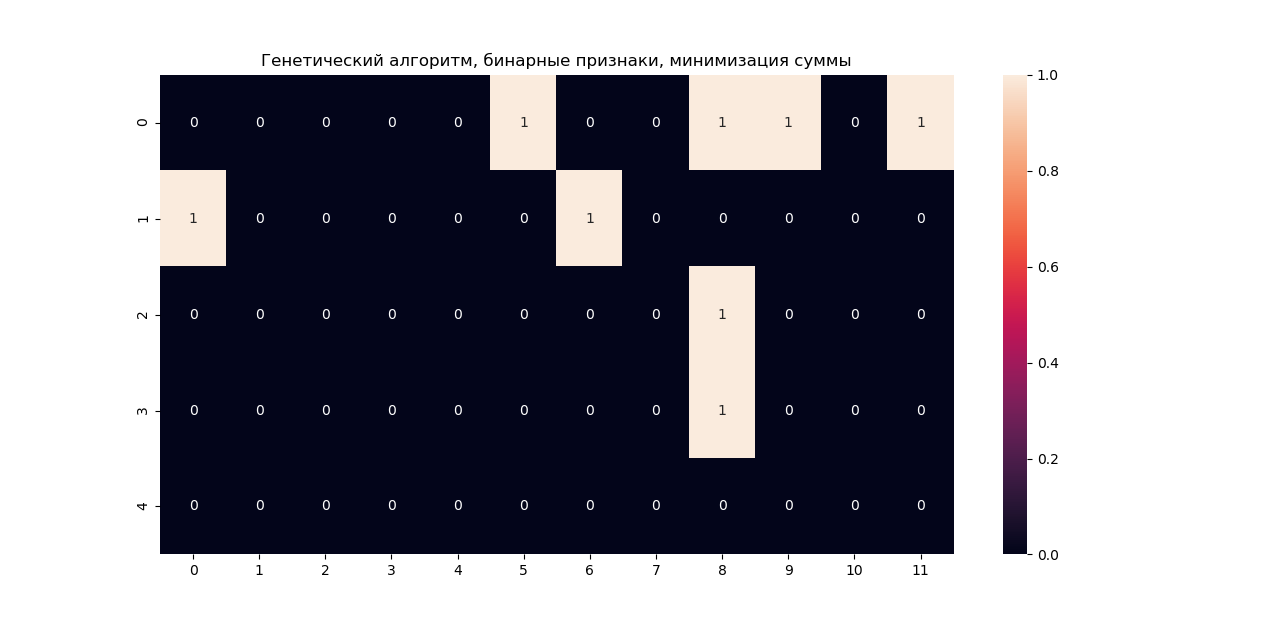
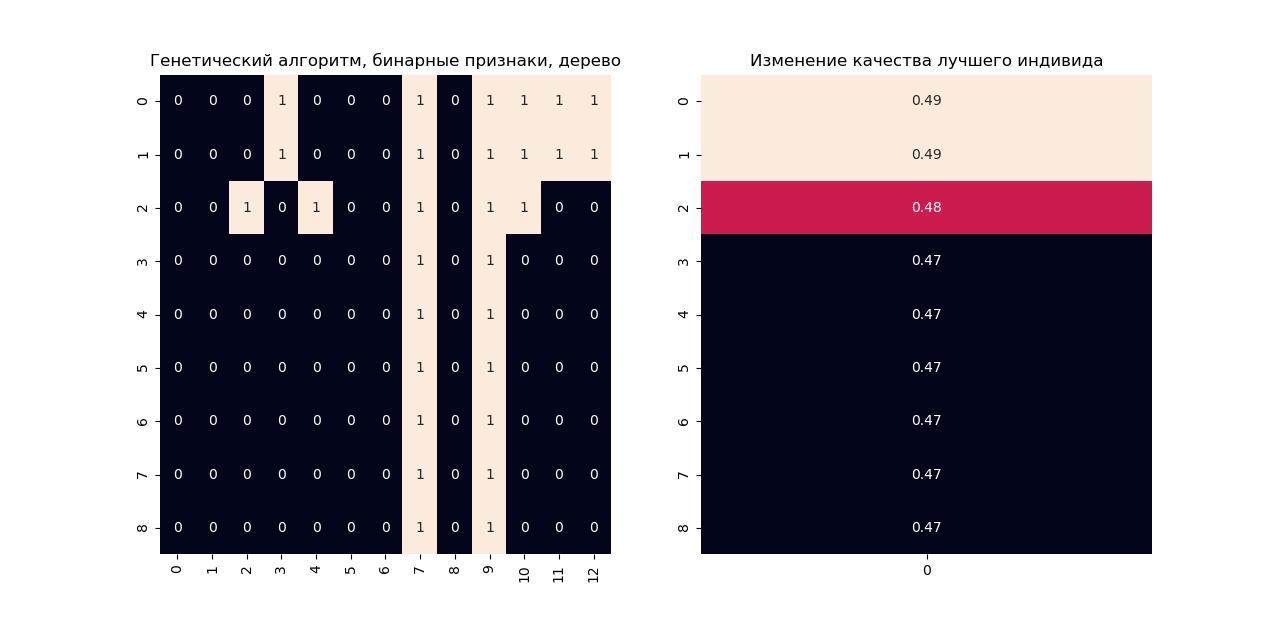
genAlg

diff --git a/README.md b/README.md
@@ -1,78 +1,140 @@
-# Генетический алгоритм
+# Генетический алгоритм
 
-Рассматривается простой пример генетического алгоритма, работающий с бинарными признаками и минимизирующий их сумму.
+  
+Создан класс *Individ* с методами:  
 
-Создан класс *Individ* с методами: 
 ```python
-__init__(self, n_feat) - зависит от количества признаков и генерирует их (возможна передача минимизируемой функции - критерия качества)
 
+__init__(self, n_feat, clf, train_data_X, train_data_Y, test_data_X, test_data_Y) - зависит от количества признаков, классификатора, данных для обучения и тестирования
 get_fitness(self) - значение качества для данного индивида
 
-not_equal(self, other) - сравнение
+
+not_equal(self, other) - сравнение  
+
 
 # отношение <=
 def __le__(self, other):
-    return (self.get_fitness() <= other.get_fitness()) and self.not_equal(other)
+ 
+	return (self.get_fitness() <= other.get_fitness()) and self.not_equal(other)
+
+  
 
 # скрещивание индивидов
+  
 def crossover(self, other):
-    result = self
-    for i in range(self._n_feat):
-        if random.random() > 0.5:
-            result._features[i] = other._features[i]
-    return result
 
-# мутация с определенной вероятностью
+	result = self
+
+	for i in range(self._n_feat):
+
+		if random.random() > 0.5:
+
+			result._bin_feat[i] = other._bin_feat[i]
+    
+	return result  
+
+
+
+# мутация с определенной вероятностью    
 def mutation(self, probability):
-    result = self
-    for i in range(self._n_feat):
-        if random.random() > probability:
-            result._features[i] = 1 - result._features[i]
-    return result
+
+	result = self
+
+	for i in range(self._n_feat):
+		if random.random() < probability:
+                	result._bin_feat[i] = 1 - result._bin_feat[i]
+        return result
+
 ```
 
-Класс *Population*, основные методы:
-```python
-__init__(self, n_pop, n_feat) - зависит от размера популяции и количества признаков (возможна передача минимизируемой функции - критерия качества)
 
+
+
+Класс *Population*, основные методы:
+
+```python
+
+ __init__(self, n_pop, clf, train_data_X, train_data_Y, test_data_X, test_data_Y)
 _sort(self) - сортировка индивидов по увеличению ключа - критерия качества (fitness)
+
 
 selection(self) - отбор n_pop лучших индивидов
 
+
 get_best_ind(self) - получить лучшего по критерию качества индивида
 
+
 get_next_generation(self, prob) - получить следующее поколение при помощи операций скрещивания и мутации (с вероятностью prob), убрать повторы
+
 ```
+
+
+
 
 Функция генетического алгоритма *GenAlg*:
+
 ```python
+
 '''
+
+clf - классификатор
 n - численность популяции
-m - количество признаков
+
 T - максимальное число итераций
+
 prob - вероятность мутации
-d - максимальна разность между поколениями
+
+d - максимальная разность между поколениями 
+
 возвращает объект типа Individ, лучший по качеству в своей популяции
+ (и для истории вернем лучших индивидов в разных поколениях + оценки)
 '''
-def GenAlg(n, m, T, prob, d):
-    p = Population(n, m)
-    bestIndivid = p.get_best_ind()
-    bestNumPop = 0
-    for t in range(T):
-        p.selection()
-        p.print()
-        if p.get_best_ind().get_fitness() < bestIndivid.get_fitness():
-            bestIndivid = p.get_best_ind()
-            bestNumPop = t
-        bestIndivids.append(bestIndivid.get_feat())
-        if t - bestNumPop >= d:
-            return bestIndivid
-        p.get_next_generation(prob)
-    return bestIndivid
+
+def GenAlg(clf, train_data_X, train_data_Y, test_data_X, test_data_Y, n, T, prob, d):
+
+	p = Population(n, clf, train_data_X, train_data_Y, test_data_X, test_data_Y)
+    	bestIndivid = p.get_best_ind()
+    	bestIndivids, scores = [], [] #для статистики
+    	bestNumPop = 0
+    	for t in range(T):
+        	p.selection()
+        	if p.get_best_ind().get_fitness() < bestIndivid.get_fitness():
+            		bestIndivid = p.get_best_ind()
+            		bestNumPop = t
+        	bestIndivids.append(bestIndivid.get_feat())
+        	scores.append(bestIndivid.get_fitness())
+        	#условие выхода
+        	if t - bestNumPop >= d:
+            		return bestIndivid, bestIndivids, scores
+        	p.get_next_generation(prob)
+    		return bestIndivid, bestIndivids, scores
 ```
 
-**Пример работы:**
+
+
+**Пример работы: Генетический алгоритм - отбор признаков для дерева решений**
+Начальные значения
+```python 
+clf_tree = DecisionTreeClassifier(criterion='entropy', max_depth=2, random_state=17, min_samples_leaf=6)
+ds = datasets.load_wine() # и перемешаем точки
+
+задать k
+train_data_X, train_data_Y = ds.data[:k, :], ds.target[:k]
+test_data_X, test_data_Y = ds.data[k:, :], ds.target[k:]
+n = 100 #размер популяции
+prob = 0.2 #вероятность мутации
+T = 200 #макс итер
+d = 50 #допуст разница между поколениями
+```
+
+запуск: 
+```python
+bestInd, res, scores = GenAlg(clf_tree, train_data_X, train_data_Y, test_data_X, test_data_Y, n, T, prob, d) 
+```
+
+Процесс работы генетического алгоритма:  
 по ox - признаки (лучшие в поколении)
-по oy - номера поколений
+, по oy - номера поколений
+
 
 ![alt text](https://github.com/elena111111/ML/blob/master/GenAlg.png)
